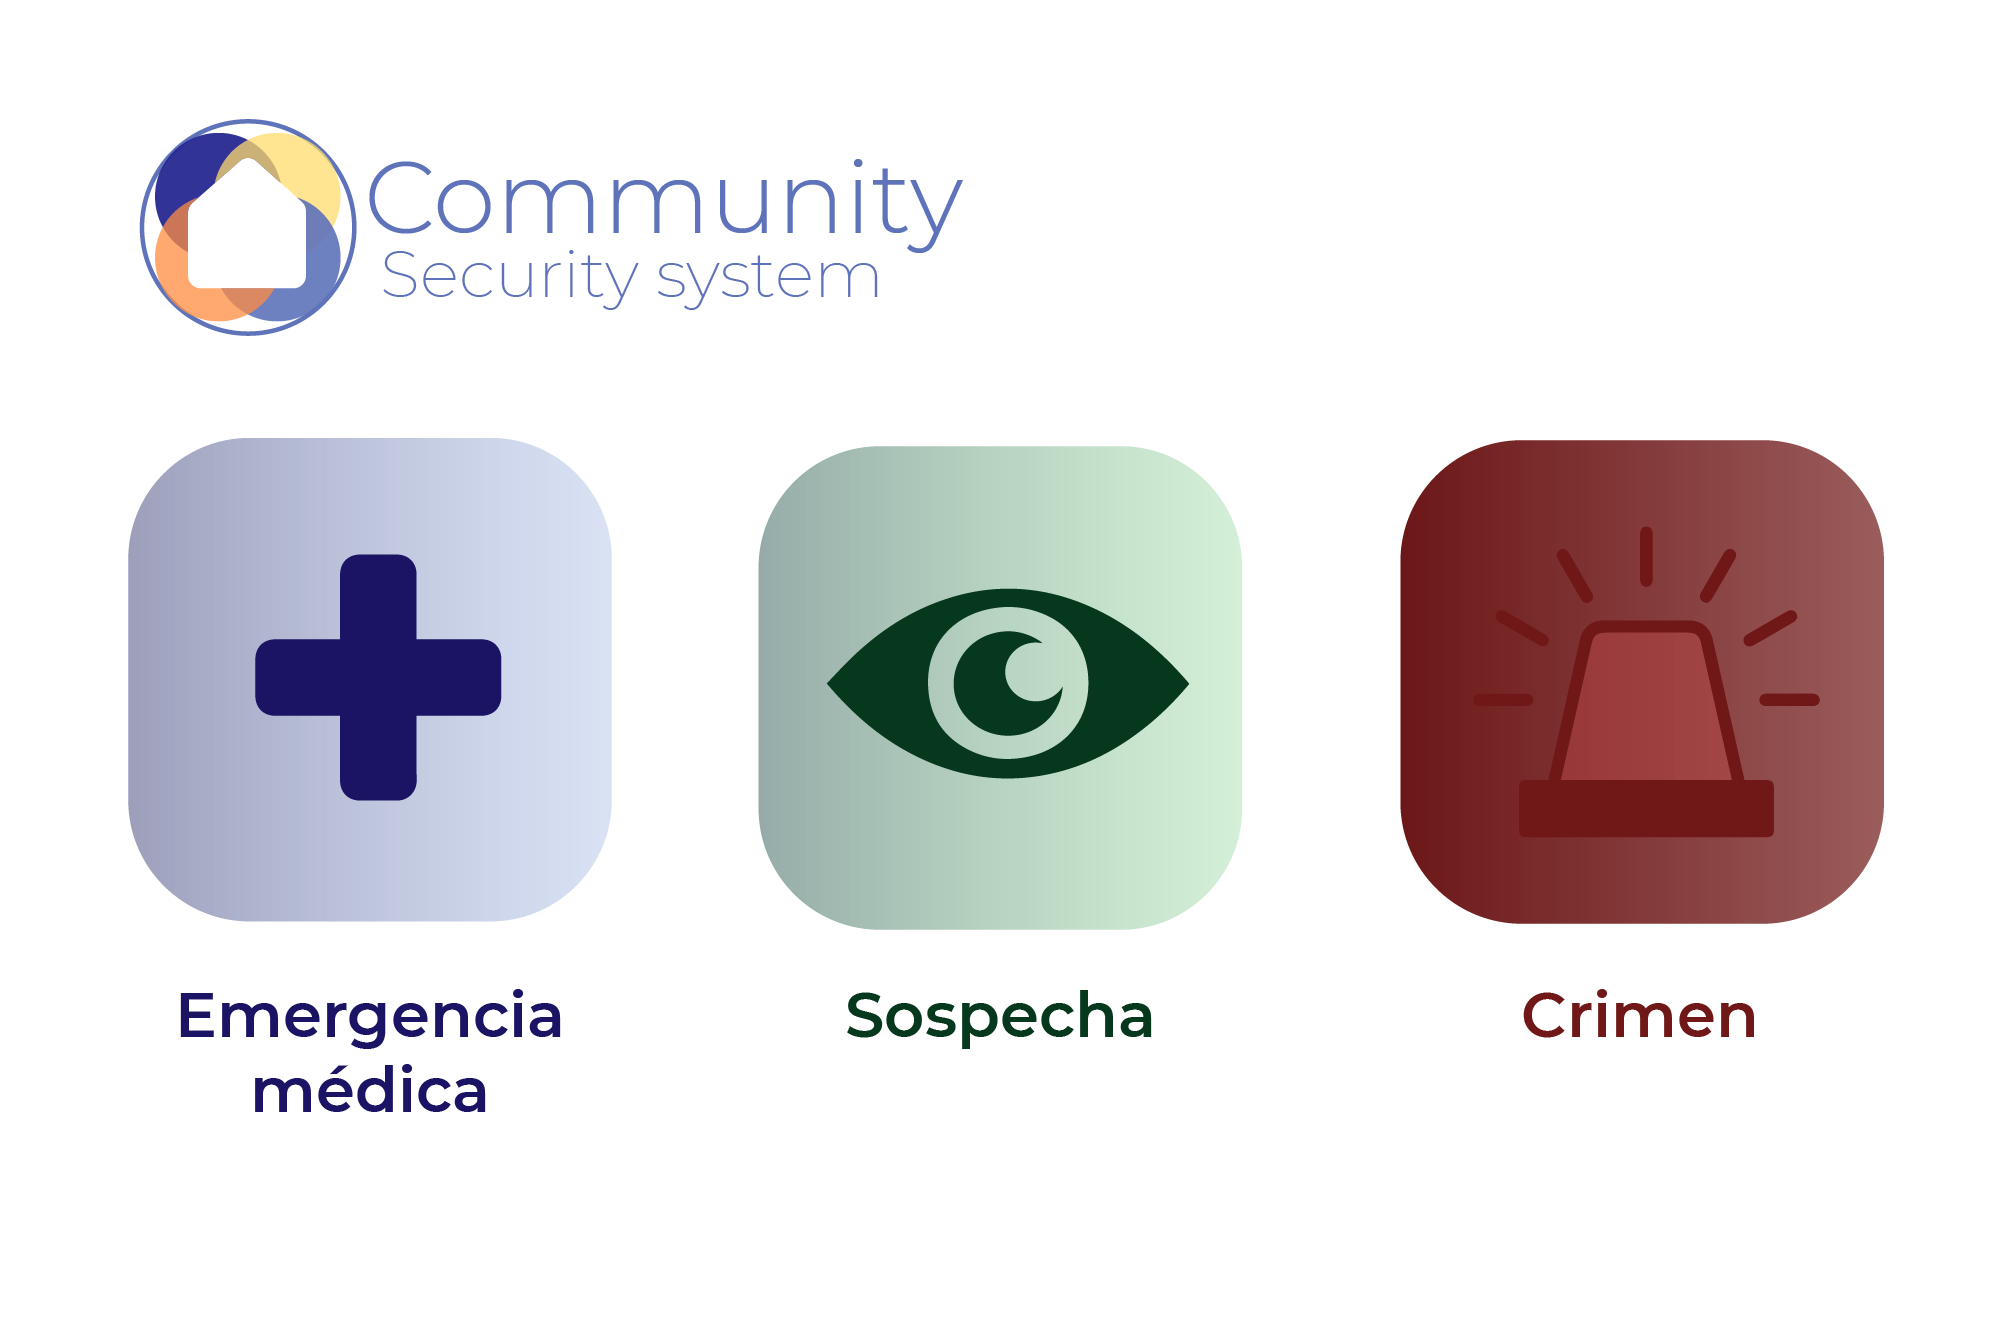
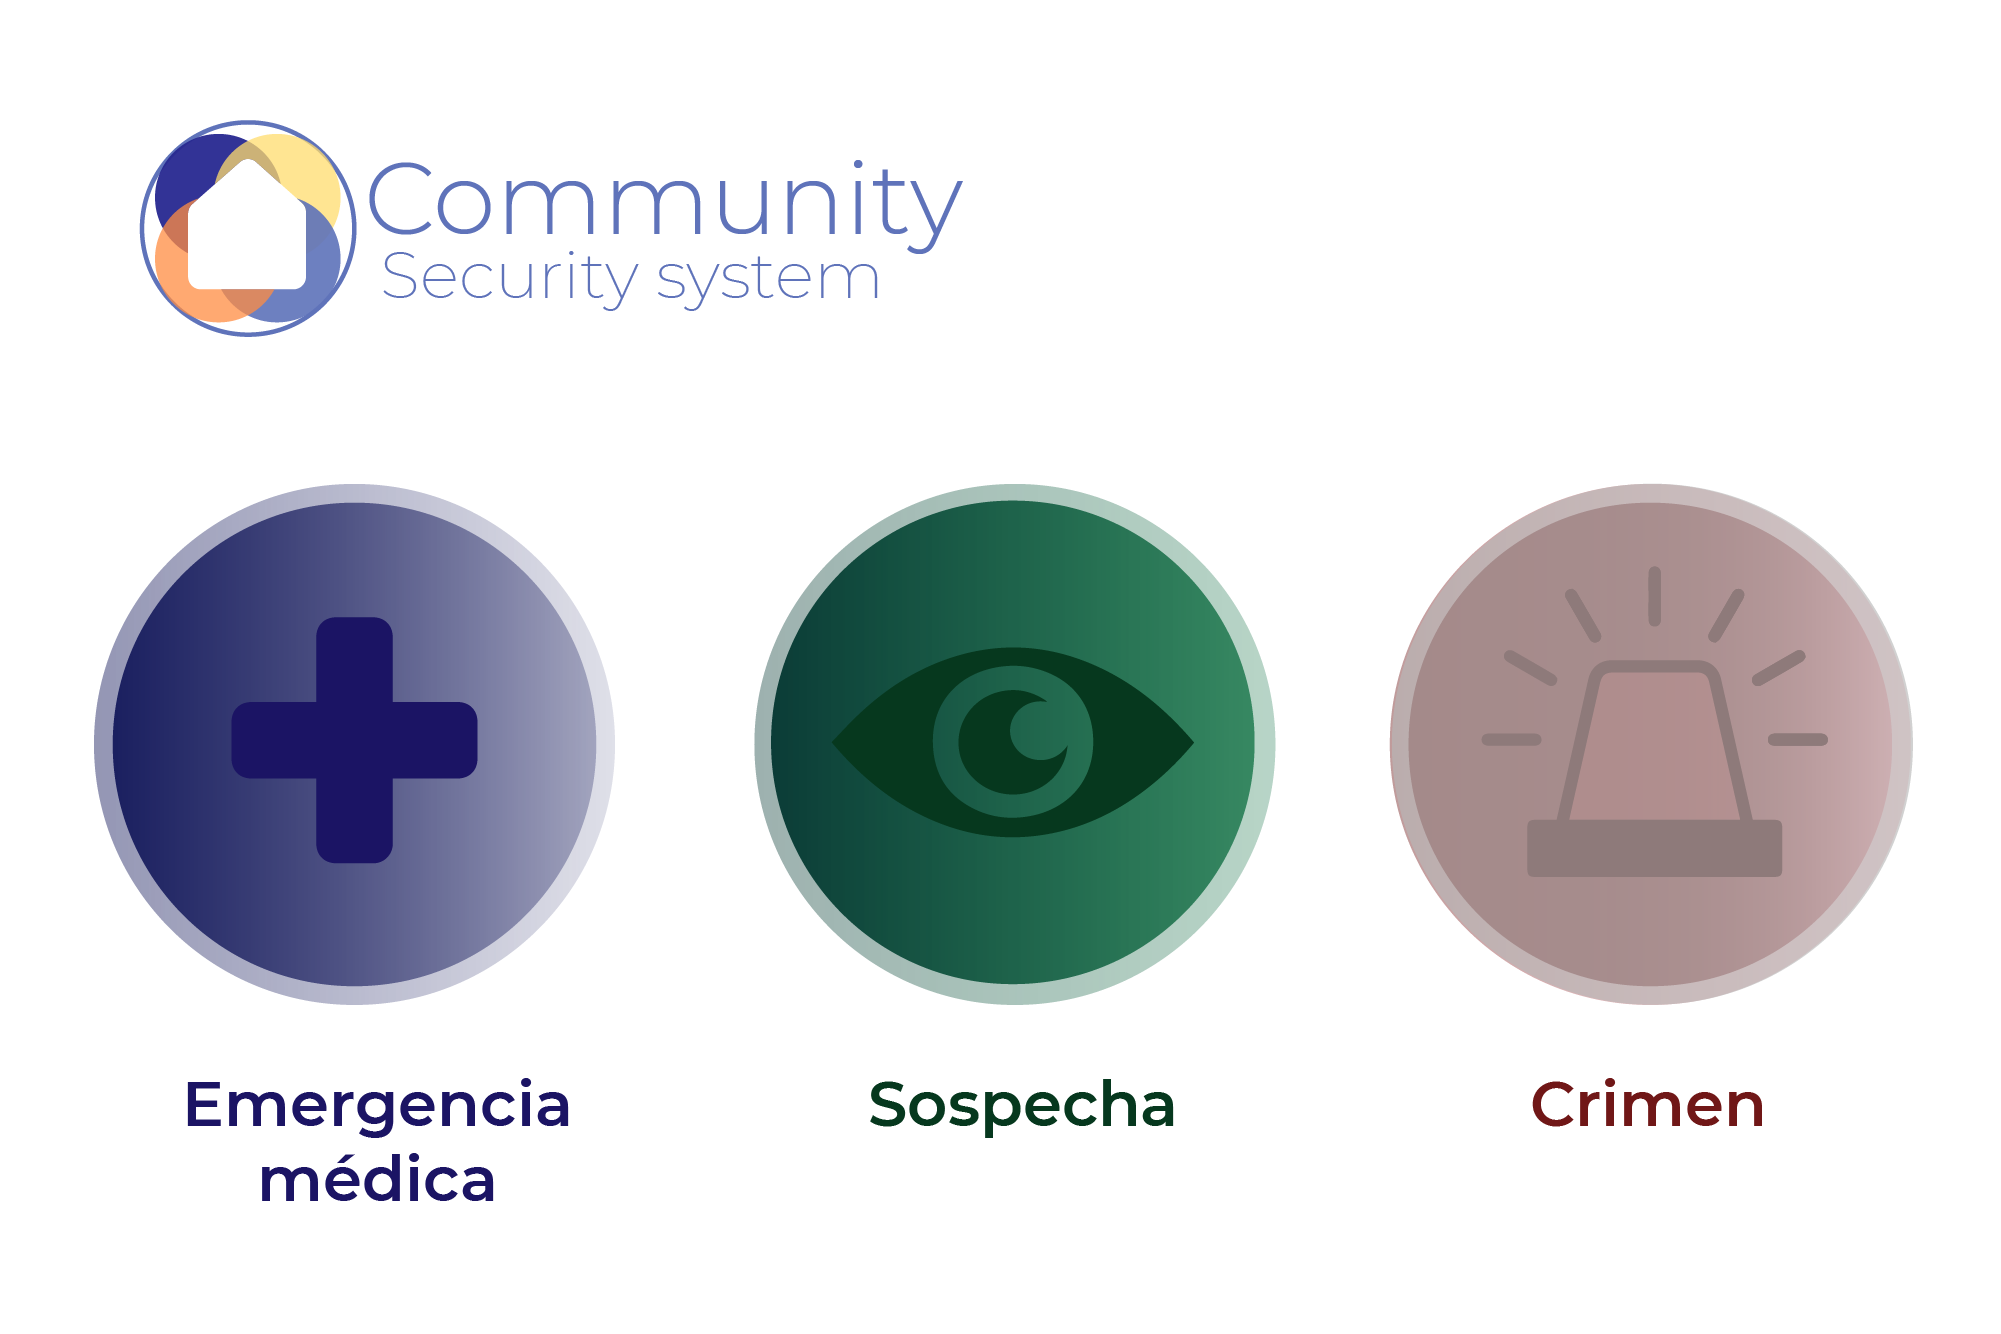
Added new images for COBO

diff --git a/COBO/Proto.py b/COBO/Proto.py
@@ -57,7 +57,7 @@ def show_pe_screen():
         if i_sended_the_alert:
                 screen.blit(screen_resize(get_image(images_path + 'pe_cancel.png')),(0,0))
         else:
-                screen.blit(screen_resize(get_image(images_path + 'pe.png')),(0,0))
+                screen.blit(screen_resize(get_image(images_path + 'pe2.png')),(0,0))
 
 def show_suspicious_screen():
         if i_sended_the_alert:
@@ -70,48 +70,55 @@ if __name__ == '__main__':
         main_screen_is_showing = True
         show_main_screen()
         while not done:
-                alert_status = firebase.get('Board/Status',None)
-                
-                if alert_status != last_status: #Cheks if the status changed and if an alert is received it is displayed
-                        main_screen_is_showing = False
-                        if alert_status == 3:                  
-                                show_crime_screen()
-                        elif alert_status == 2:
-                                show_pe_screen()
-                        elif alert_status == 1:
-                                show_suspicious_screen()                        
-                        else:                       
-                                show_main_screen()                    
-                                main_screen_is_showing = True
-                                i_sended_the_alert = False
+                try:
+                        alert_status = firebase.get('Board/Status',None)
+                        
+                        if alert_status != last_status: #Cheks if the status changed and if an alert is received it is displayed
+                                main_screen_is_showing = False
+                                if alert_status == 3:                  
+                                        show_crime_screen()
+                                elif alert_status == 2:
+                                        show_pe_screen()
+                                elif alert_status == 1:
+                                        show_suspicious_screen()                        
+                                else:                       
+                                        show_main_screen()                    
+                                        main_screen_is_showing = True
+                                        i_sended_the_alert = False
 
-                for event in pygame.event.get():
-                        if event.type == pygame.QUIT:
-                                done = True
-                                break
-                        elif event.type == pygame.MOUSEBUTTONUP:
-        		        x,y = pygame.mouse.get_pos()
-                                # print x,y
-                                # print x/float(screen_width) , y/float(screen_heigth)
-                                
-                                if main_screen_is_showing:
-                                        if   0.328703703704 <= y/float(screen_heigth)  and  y/float(screen_heigth) <= 0.692592592593: #IS IN Y RANGE
-                                                if 0.16875 <= x/float(screen_width) and x/float(screen_width) <= 0.304166666667:
-                                                        screen.blit(screen_resize(get_image(images_path + 'pe_selected.png')),(0,0))
-                                                        firebase.put('Board','Status',2)
-                                                        i_sended_the_alert = True
-                                                elif 0.383333333333<= x/float(screen_width) and x/float(screen_width) <= 0.623958333333:
-                                                        screen.blit(screen_resize(get_image(images_path + 'suspicious_selected.png')),(0,0))
-                                                        firebase.put('Board','Status',1)
-                                                        i_sended_the_alert = True
-                                                elif 0.7 <= x/float(screen_width) and x/float(screen_width) <= 0.939583333333:
-                                                        screen.blit(screen_resize(get_image(images_path + 'crime_selected.png')),(0,0))
-                                                        firebase.put('Board','Status',3)
-                                                        i_sended_the_alert = True
-                                else:
-                                        if ( 0.822395833333 <= x/float(screen_width) and x/float(screen_width) <= 0.959895833333) and (0.736111111111<= y/float(screen_heigth) and y/float(screen_heigth) <= 0.940740740741) and i_sended_the_alert:
-                                                firebase.put('Board','Status',0)
-                                
+                        for event in pygame.event.get():
+                                if event.type == pygame.QUIT:
+                                        done = True
+                                        break
+                                elif event.type == pygame.MOUSEBUTTONUP:
+                		        x,y = pygame.mouse.get_pos()
+                                        # print x,y
+                                        print x/float(screen_width) , y/float(screen_heigth)
+                                        
+                                        if main_screen_is_showing:
+                                                if   0.367592592593 <= y/float(screen_heigth)  and  y/float(screen_heigth) <= 0.75462962963: #IS IN Y RANGE
+                                                        if 0.0473958333333 <= x/float(screen_width) and x/float(screen_width) <= 0.30625:
+                                                                screen.blit(screen_resize(get_image(images_path + 'pe_selected.png')),(0,0))
+                                                                firebase.put('Board','Status',2)
+                                                                i_sended_the_alert = True
+                                                        elif 0.40625 <= x/float(screen_width) and x/float(screen_width) <= 0.636458333333:
+                                                                screen.blit(screen_resize(get_image(images_path + 'suspicious_selected.png')),(0,0))
+                                                                firebase.put('Board','Status',1)
+                                                                i_sended_the_alert = True
+                                                        elif 0.694791666667 <= x/float(screen_width) and x/float(screen_width) <= 0.955208333333:
+                                                                screen.blit(screen_resize(get_image(images_path + 'crime_selected.png')),(0,0))
+                                                                firebase.put('Board','Status',3)
+                                                                i_sended_the_alert = True
+                                        else:
+                                                if ( 0.822395833333 <= x/float(screen_width) and x/float(screen_width) <= 0.959895833333) and (0.736111111111<= y/float(screen_heigth) and y/float(screen_heigth) <= 0.940740740741) and i_sended_the_alert:
+                                                        firebase.put('Board','Status',0)
+                                                 
+                        last_status = alert_status
+
+                except Exception as e:
+                        print e
+                        screen.blit(screen_resize(get_image(images_path + 'no_connection.png')),(0,0))
+                        # screen.fill((255,255,255))
+
                 pygame.display.flip()
                 clock.tick(10)
-                last_status = alert_status
